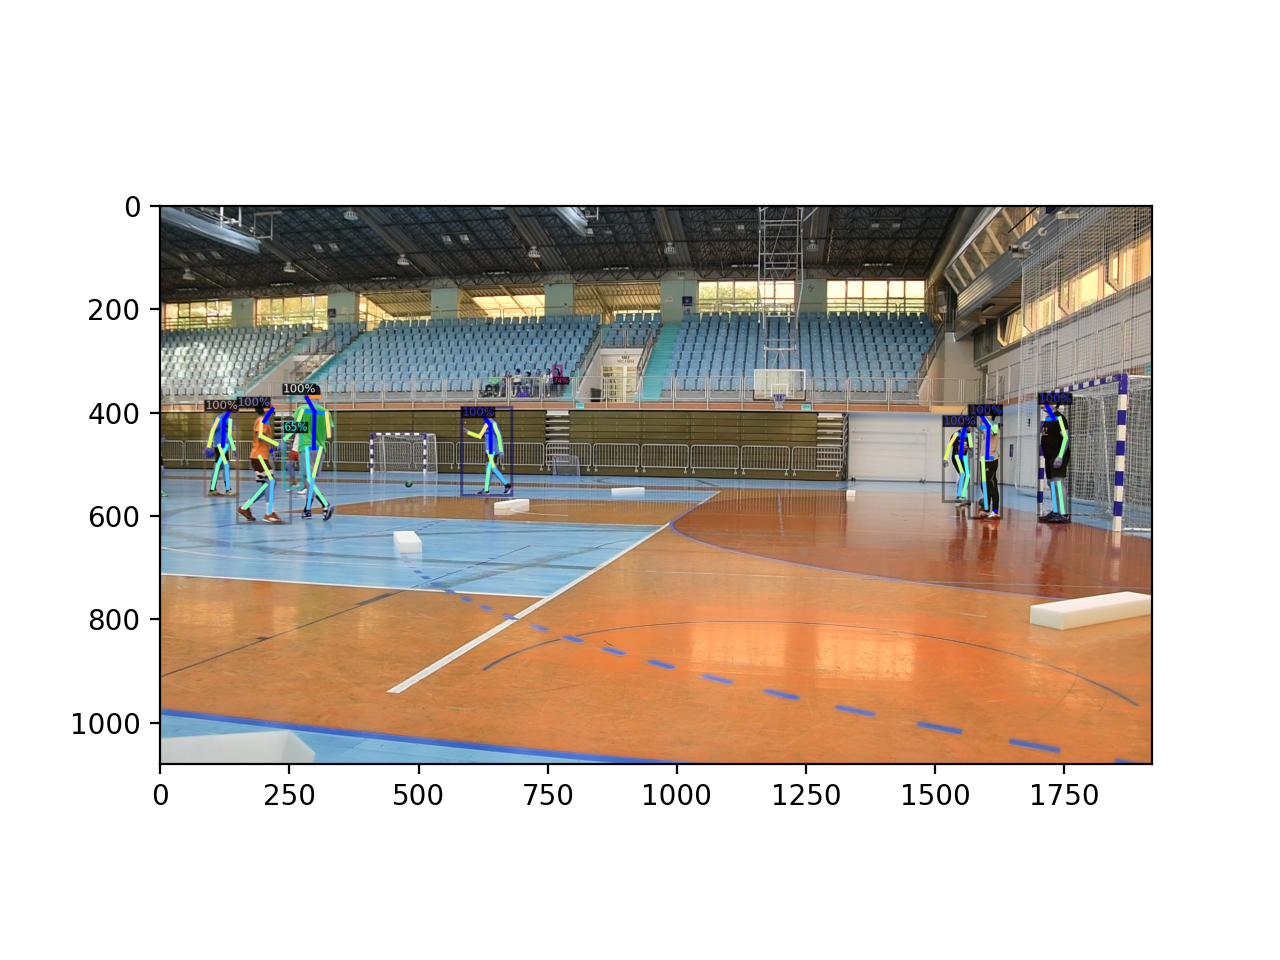
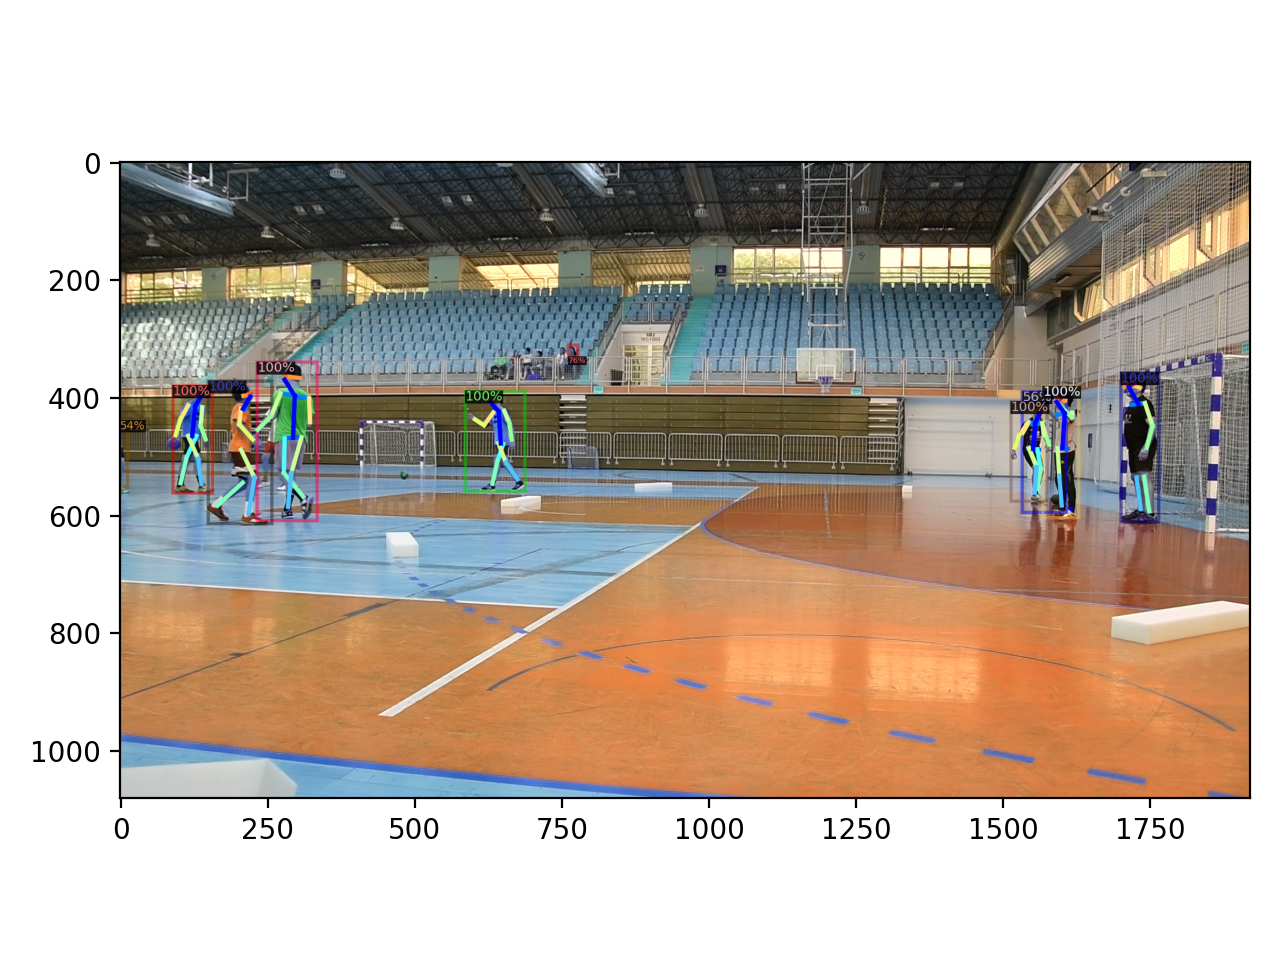
update images

diff --git a/pose_tracker.py b/pose_tracker.py
@@ -208,6 +208,7 @@ class PoseTracker:
         cv2.waitKey(1)
 
         #plt.imshow(visualized_output.get_image()[:, :, ::-1])
+        #plt.tight_layout()
         #plt.savefig("./res/detection.png")
 
         detections = predictions["instances"].get("pred_boxes").tensor.numpy()
@@ -348,6 +349,7 @@ class PoseTracker:
             t_curr_bbox = self.aligner.resize(t_curr_bbox)
 
             #plt.imshow(t_curr_bbox[:, :, ::-1])
+            #plt.tight_layout()
             #plt.savefig("./res/resized.png")
 
             #t_predictions, t_detections, t_out_scores = self.detect(t_curr_bbox)
